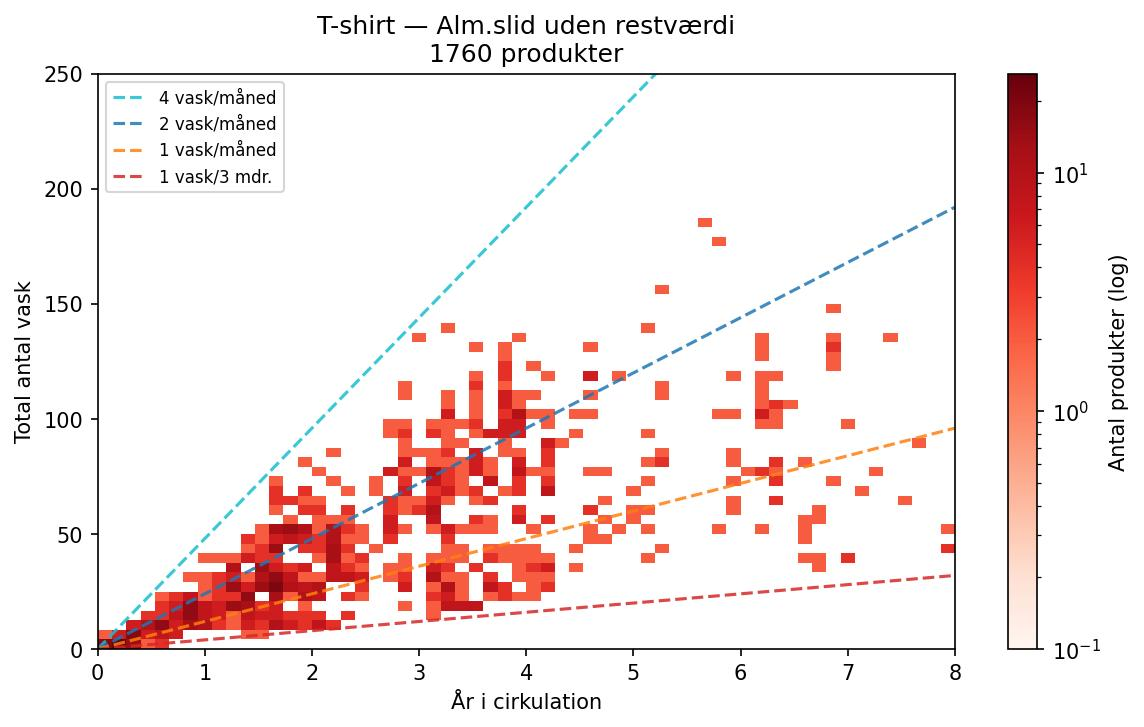
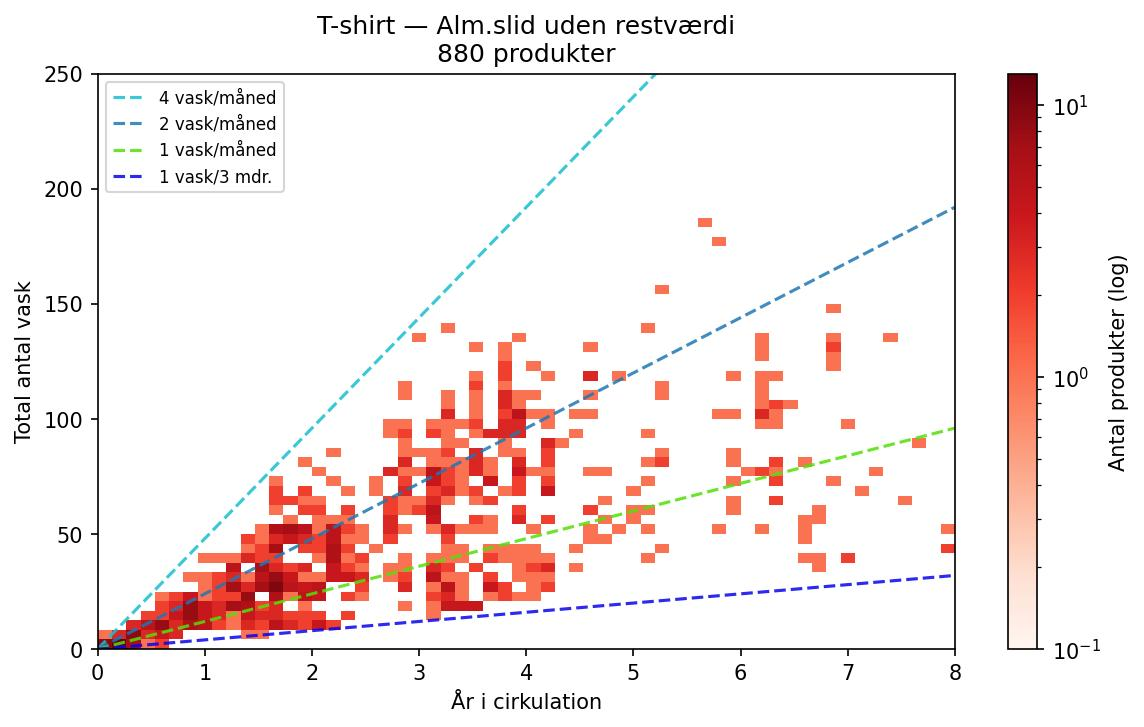
Picture upload

diff --git a/Saved Histograms/Tshirt1-2VaskPrMåned/README.md b/Saved Histograms/Tshirt1-2VaskPrMåned/README.md
@@ -1,0 +1,8 @@
+# T-shirt — Alle
+
+*2026-03-10 12:27:06*
+
+## Note
+
+T-shirt 1-2 vask/måned. Her kunne det være godt at vide om det er et udtryk for at tøjet bliver brugt meget eller vasket sjældnere og kunden dermed har mere tøj, end dem som ligger i 2-4 vask/måned?
+

diff --git a/Saved Histograms/skjorte_vask/README.md b/Saved Histograms/skjorte_vask/README.md
@@ -1,0 +1,7 @@
+# Skjorte — Alle
+
+*2026-03-10 11:35:14*
+
+## Note
+
+Skjorter 2-4VaskPrMåned. Her er der en sammenhæng hvor forventet levetid er højrere jo sjældnere skjorten bliver vasket

diff --git a/Saved Histograms/Polo1-2VaskPrMåned/README.md b/Saved Histograms/Polo1-2VaskPrMåned/README.md
@@ -1,0 +1,7 @@
+# T-shirt — Alm.slid uden restværdi
+
+*2026-03-10 13:24:44*
+
+## Note
+
+Sammenligner levetid mellem T-shirts og Poloer ved 1-2 vaske pr. måned sammen med Tshirt 1-2

diff --git a/Saved Histograms/polo_eks_med_vaske_ratio/README.md b/Saved Histograms/polo_eks_med_vaske_ratio/README.md
@@ -1,6 +1,6 @@
 # T-shirt — Alm.slid uden restværdi
 
-*2026-03-09 13:41:16*
+*2026-03-10 11:27:39*
 
 ## Note
 

diff --git a/Saved Histograms/Tshirt1-033VaskPrMåned/README.md b/Saved Histograms/Tshirt1-033VaskPrMåned/README.md
@@ -1,0 +1,7 @@
+# T-shirt — Alle
+
+*2026-03-10 11:41:27*
+
+## Note
+
+T-shirt 1-1/3 vask/måned

diff --git a/Saved Histograms/Tshirt2-4VaskPrMåned/README.md b/Saved Histograms/Tshirt2-4VaskPrMåned/README.md
@@ -1,0 +1,7 @@
+# T-shirt — Alle
+
+*2026-03-10 11:40:45*
+
+## Note
+
+T-shirt 2-4 vask/måned
